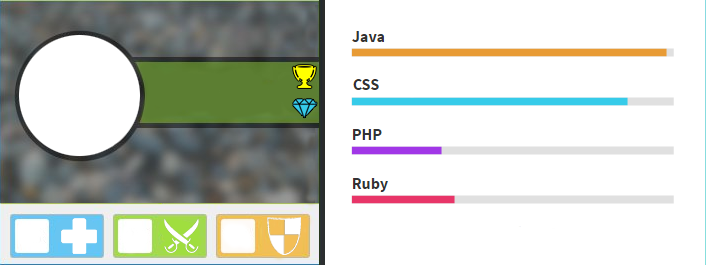
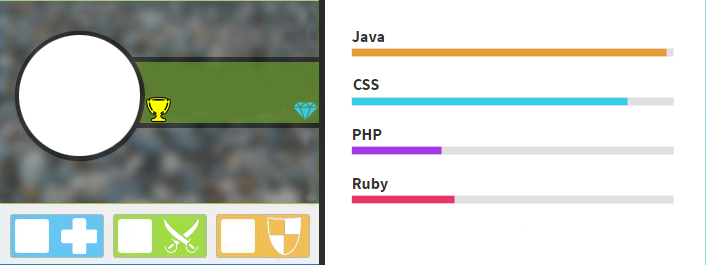
!profile <partofusername>  + more numbers (woa!)

Changed region(s): [[0.4051, 0.2415, 0.4674, 0.3321], [0.187, 0.3623, 0.2493, 0.483], [0.4051, 0.3623, 0.4674, 0.4528]]

diff --git a/src/main/java/discordbot/modules/profile/ProfileImageV2.java b/src/main/java/discordbot/modules/profile/ProfileImageV2.java
@@ -46,13 +46,16 @@ public class ProfileImageV2 extends ProfileImage {
 		g.drawImage(profileImg, 18, 33, 141, 159, 0, 0, profileImg.getWidth(), profileImg.getHeight(), null);
 		g.drawImage(backgroundImage, 0, 0, 320, 265, 0, 0, 320, 265, null);
 
-		GfxUtil.addShadow(getUser().getName(), defaultFont, 148, 89 + (fontsize / 2), g, Color.black);
-		GfxUtil.addText(getUser().getName(), defaultFont, 148, 89 + (fontsize / 2), g, Color.white);
+		GfxUtil.addCenterShadow(getUser().getName(), defaultFont, 222, 71 + (fontsize / 2), g, Color.black);
+		GfxUtil.addCenterText(getUser().getName(), defaultFont, 222, 71 + (fontsize / 2), g, Color.white);
 		GfxUtil.addRightText("made by Emily", creditFont, 318, 199, g, new Color(0x3A3A38));
 
-		GfxUtil.addCenterText("" + rng.nextInt(100), score, 31, 246, g, new Color(0x5c7e32));
-		GfxUtil.addCenterText("" + rng.nextInt(100), score, 134, 246, g, new Color(0x5c7e32));
-		GfxUtil.addCenterText("" + rng.nextInt(100), score, 237, 246, g, new Color(0x5c7e32));
+		GfxUtil.addText("" + rng.nextInt(1000), score, 173, 118, g, new Color(0xffff00));//rewards
+		GfxUtil.addRightText("" + rng.nextInt(1000), score, 290, 118, g, new Color(0x36cbe9));//currency
+
+		GfxUtil.addCenterText("" + rng.nextInt(100), score, 31, 246, g, new Color(0x5c7e32));//health
+		GfxUtil.addCenterText("" + rng.nextInt(100), score, 134, 246, g, new Color(0x5c7e32));//attack
+		GfxUtil.addCenterText("" + rng.nextInt(100), score, 237, 246, g, new Color(0x5c7e32));//defense
 		File file = new File("profile_v2_" + getUser().getID() + ".png");
 		ImageIO.write(result, "png", file);
 		return file;

diff --git a/src/main/java/discordbot/command/adventure/ProfileCommand.java b/src/main/java/discordbot/command/adventure/ProfileCommand.java
@@ -1,9 +1,11 @@
 package discordbot.command.adventure;
 
 import discordbot.core.AbstractCommand;
+import discordbot.handler.Template;
 import discordbot.main.DiscordBot;
 import discordbot.modules.profile.ProfileImageV1;
 import discordbot.modules.profile.ProfileImageV2;
+import discordbot.util.DisUtil;
 import sx.blah.discord.handle.obj.IChannel;
 import sx.blah.discord.handle.obj.IUser;
 
@@ -29,7 +31,10 @@ public class ProfileCommand extends AbstractCommand {
 
 	@Override
 	public String[] getUsage() {
-		return new String[]{"profile"};
+		return new String[]{
+				"profile",
+				"profile <@user>  //shows the profile of @user"
+		};
 	}
 
 	@Override
@@ -39,13 +44,24 @@ public class ProfileCommand extends AbstractCommand {
 
 	@Override
 	public String execute(String[] args, IChannel channel, IUser author) {
+		IUser user = author;
+		if (args.length > 0) {
+			if (DisUtil.isUserMention(args[0])) {
+				user = bot.instance.getUserByID(DisUtil.mentionToId(args[0]));
+			} else {
+				user = DisUtil.findUserIn(channel, args[0].toLowerCase());
+			}
+			if (user == null) {
+				return String.format(Template.get("cant_find_user"), args[0]);
+			}
+		}
 		try {
 			File file;
 			if (args.length > 0 && args[0].equals("v1")) {
-				ProfileImageV1 version1 = new ProfileImageV1(author);
+				ProfileImageV1 version1 = new ProfileImageV1(user);
 				file = version1.getProfileImage();
 			} else {
-				ProfileImageV2 version2 = new ProfileImageV2(author);
+				ProfileImageV2 version2 = new ProfileImageV2(user);
 				file = version2.getProfileImage();
 			}
 			channel.sendFile(file);

diff --git a/src/main/java/discordbot/util/DisUtil.java b/src/main/java/discordbot/util/DisUtil.java
@@ -7,6 +7,7 @@ import sx.blah.discord.handle.obj.*;
 
 import java.util.ArrayList;
 import java.util.List;
+import java.util.Optional;
 import java.util.regex.Matcher;
 import java.util.regex.Pattern;
 import java.util.stream.Collectors;
@@ -27,6 +28,44 @@ public class DisUtil {
 	 */
 	public static boolean isUserMention(String input) {
 		return mentionUserPattern.matcher(input).matches();
+	}
+
+	/**
+	 * Attempts to find a user in a channel, first look for account name then for nickname
+	 *
+	 * @param channel    the channel to look in
+	 * @param searchText the name to look for
+	 * @return IUser | null
+	 */
+	public static IUser findUserIn(IChannel channel, String searchText) {
+		List<IUser> users = channel.getUsersHere();
+		List<IUser> potential = new ArrayList<>();
+		int smallestDiffIndex = 0, smallestDiff = 999;
+		for (IUser u : users) {
+			if (u.getName().equalsIgnoreCase(searchText)) {
+				return u;
+			}
+			Optional<String> nickNameOptional = u.getNicknameForGuild(channel.getGuild());
+			String nick;
+			if (nickNameOptional.isPresent()) {
+				nick = nickNameOptional.get().toLowerCase();
+			} else {
+				nick = u.getName().toLowerCase();
+			}
+			if (nick.contains(searchText)) {
+				potential.add(u);
+				int d = Math.abs(nick.length() - searchText.length());
+				if (d < smallestDiff) {
+					smallestDiff = d;
+					smallestDiffIndex = potential.size() - 1;
+				}
+			}
+
+		}
+		if (!potential.isEmpty()) {
+			return potential.get(smallestDiffIndex);
+		}
+		return null;
 	}
 
 	/**

diff --git a/src/main/java/discordbot/util/GfxUtil.java b/src/main/java/discordbot/util/GfxUtil.java
@@ -28,6 +28,13 @@ public class GfxUtil {
 		addText(text, font, x - 1, y - 1, g, color);
 	}
 
+	public static void addCenterShadow(String text, Font font, int x, int y, Graphics g, Color color) {
+		addCenterText(text, font, x + 1, y + 1, g, color);
+		addCenterText(text, font, x + 1, y - 1, g, color);
+		addCenterText(text, font, x - 1, y + 1, g, color);
+		addCenterText(text, font, x - 1, y - 1, g, color);
+	}
+
 	public static void addText(String text, Font font, int x, int y, Graphics g, Color color) {
 		g.setFont(font);
 		g.setColor(color);

diff --git a/readme.md b/readme.md
@@ -33,12 +33,13 @@ Commands | | | | |
 [8ball](#8ball) | [avatar](#avatar) | [blackjack](#blackjack) | [catfact](#catfact) | [changename](#changename)
 [command](#command) | [config](#config) | [current](#current) | [exit](#exit) | [game](#game)
 [help](#help) | [importmusic](#importmusic) | [info](#info) | [invite](#invite) | [join](#join)
-[joke](#joke) | [leave](#leave) | [mcstatus](#mcstatus) | [play](#play) | [playlist](#playlist)
-[pm](#pm) | [poec](#poec) | [poeitem](#poeitem) | [poelab](#poelab) | [poll](#poll)
-[purge](#purge) | [reboot](#reboot) | [reddit](#reddit) | [reload](#reload) | [report](#report)
-[role](#role) | [roll](#roll) | [rotate](#rotate) | [say](#say) | [skip](#skip)
-[slot](#slot) | [stop](#stop) | [subscribe](#subscribe) | [system](#system) | [tag](#tag)
-[template](#template) | [user](#user) | [version](#version) | [volume](#volume) | 
+[joke](#joke) | [leave](#leave) | [leaveguild](#leaveguild) | [mcstatus](#mcstatus) | [play](#play)
+[playlist](#playlist) | [pm](#pm) | [poec](#poec) | [poeitem](#poeitem) | [poelab](#poelab)
+[poll](#poll) | [purge](#purge) | [reboot](#reboot) | [reddit](#reddit) | [reload](#reload)
+[report](#report) | [role](#role) | [roll](#roll) | [rotate](#rotate) | [say](#say)
+[skip](#skip) | [slot](#slot) | [stop](#stop) | [subscribe](#subscribe) | [system](#system)
+[tag](#tag) | [template](#template) | [user](#user) | [version](#version) | [volume](#volume)
+
 
 ## Games
 
@@ -353,6 +354,17 @@ Usable in public and private channels
 Leaves the voicechannel
 
 Usable in public ~~and private~~ channels
+### leaveguild
+
+leaves guild :(
+
+Usable in public and private channels
+
+#### Usage
+
+```php
+leaveguild     //leaves the guild
+```
 ### mcstatus
 
 Shows some information about the server
